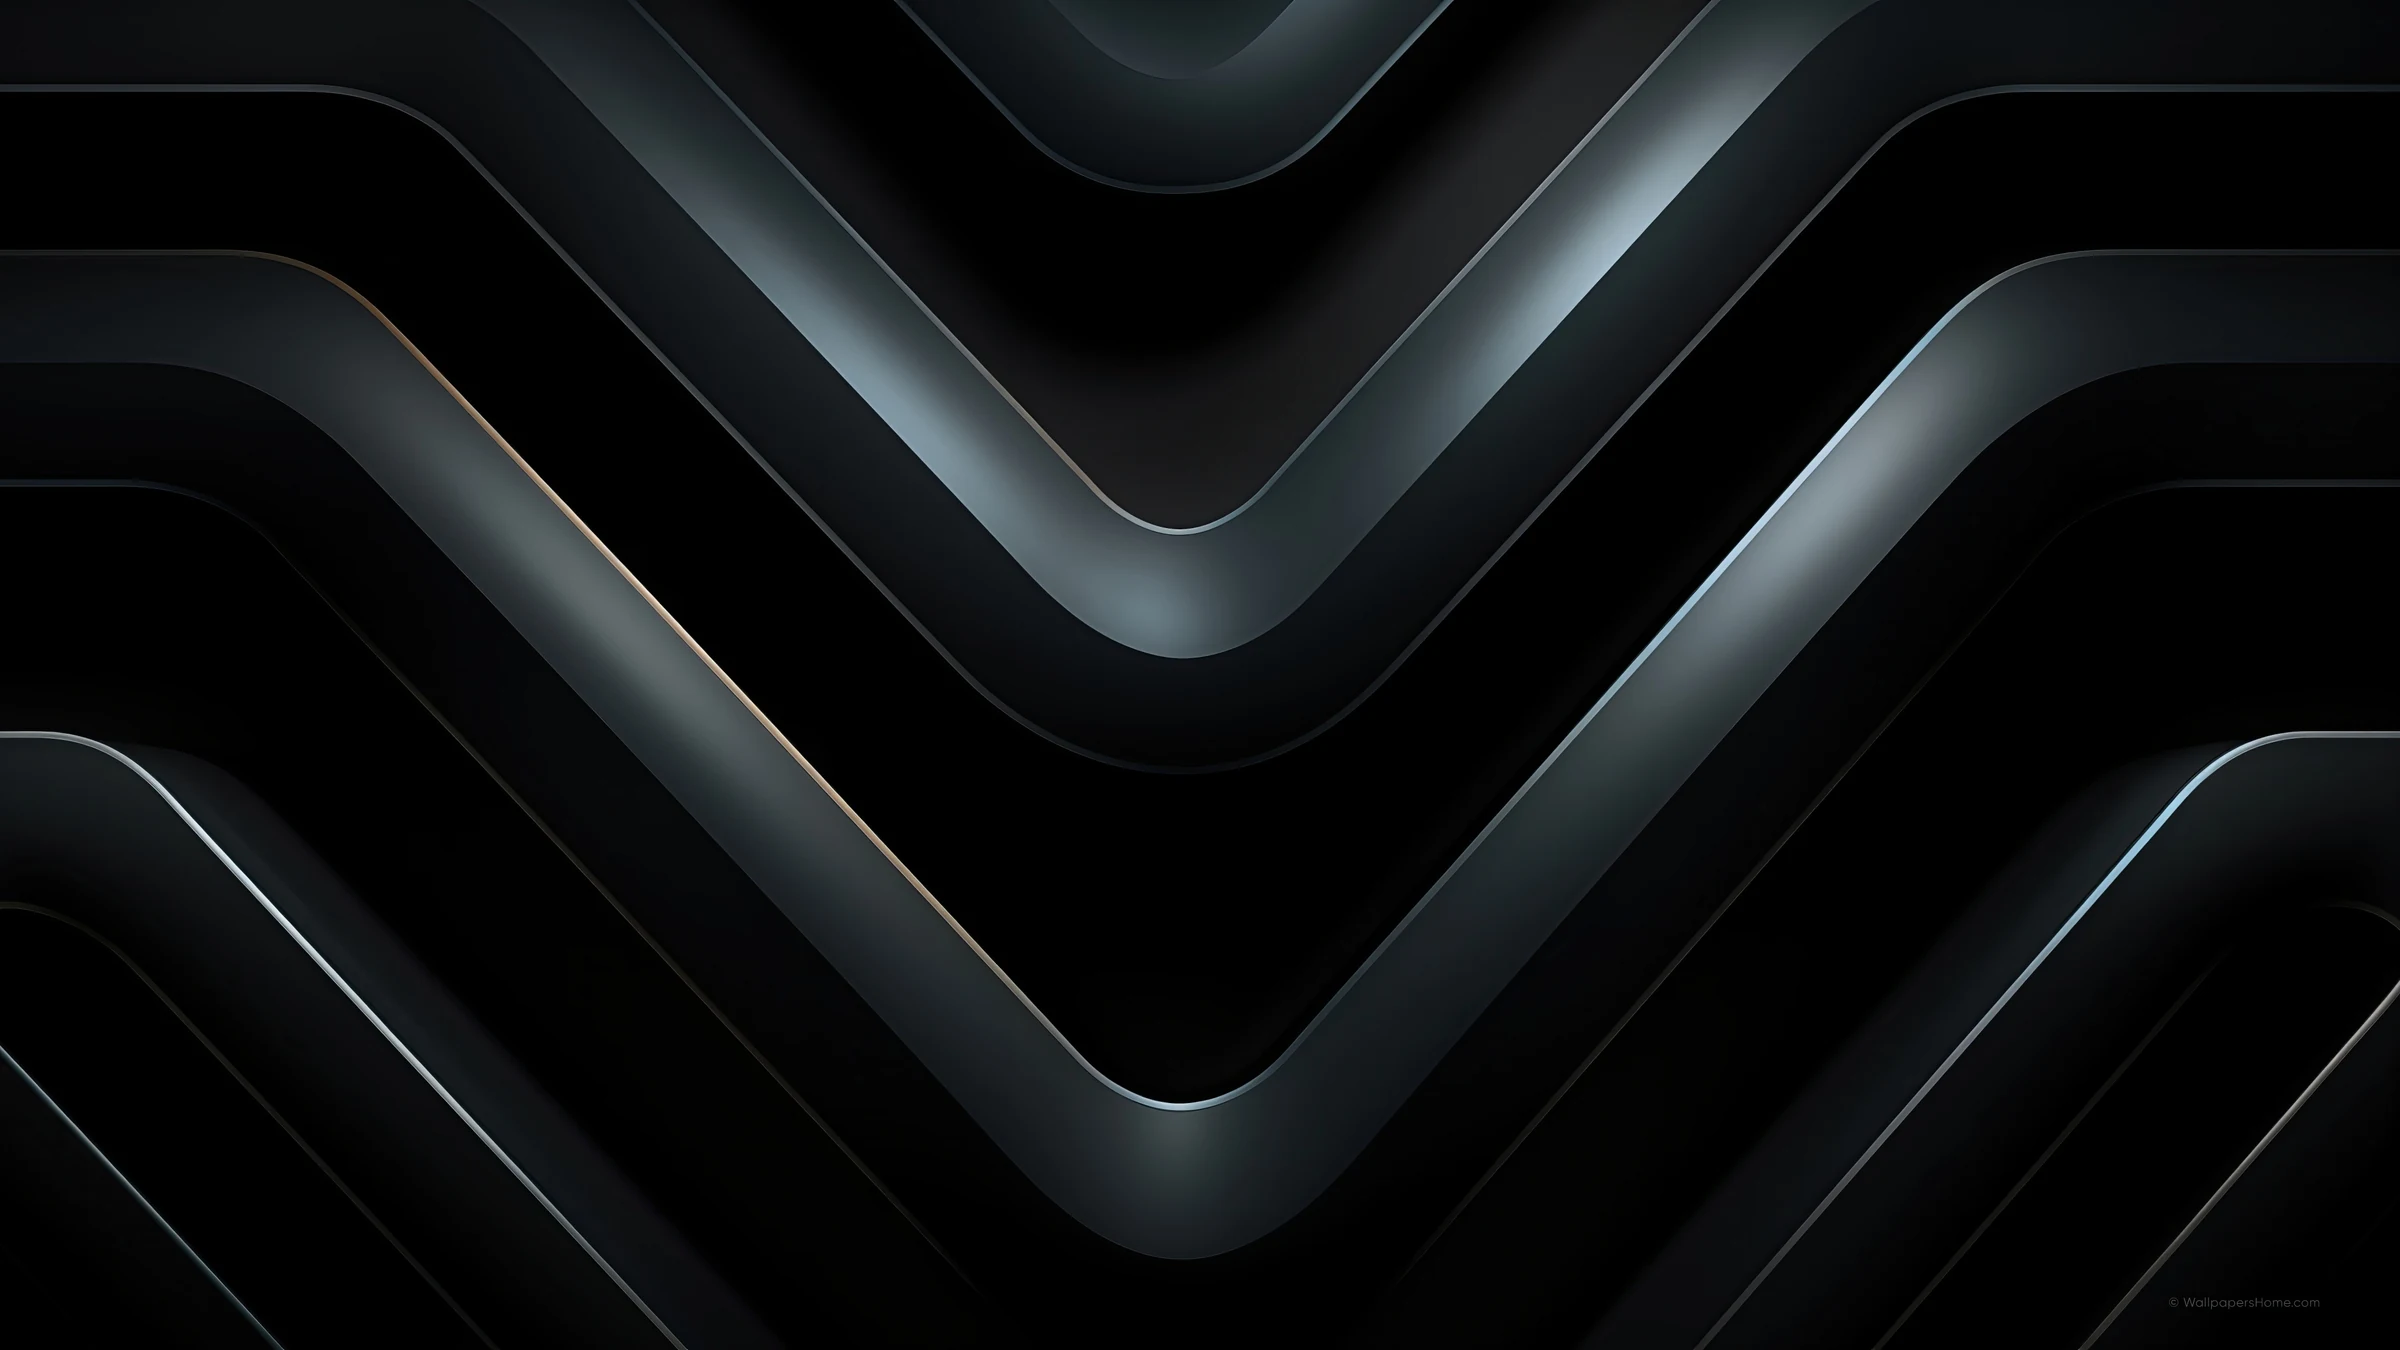
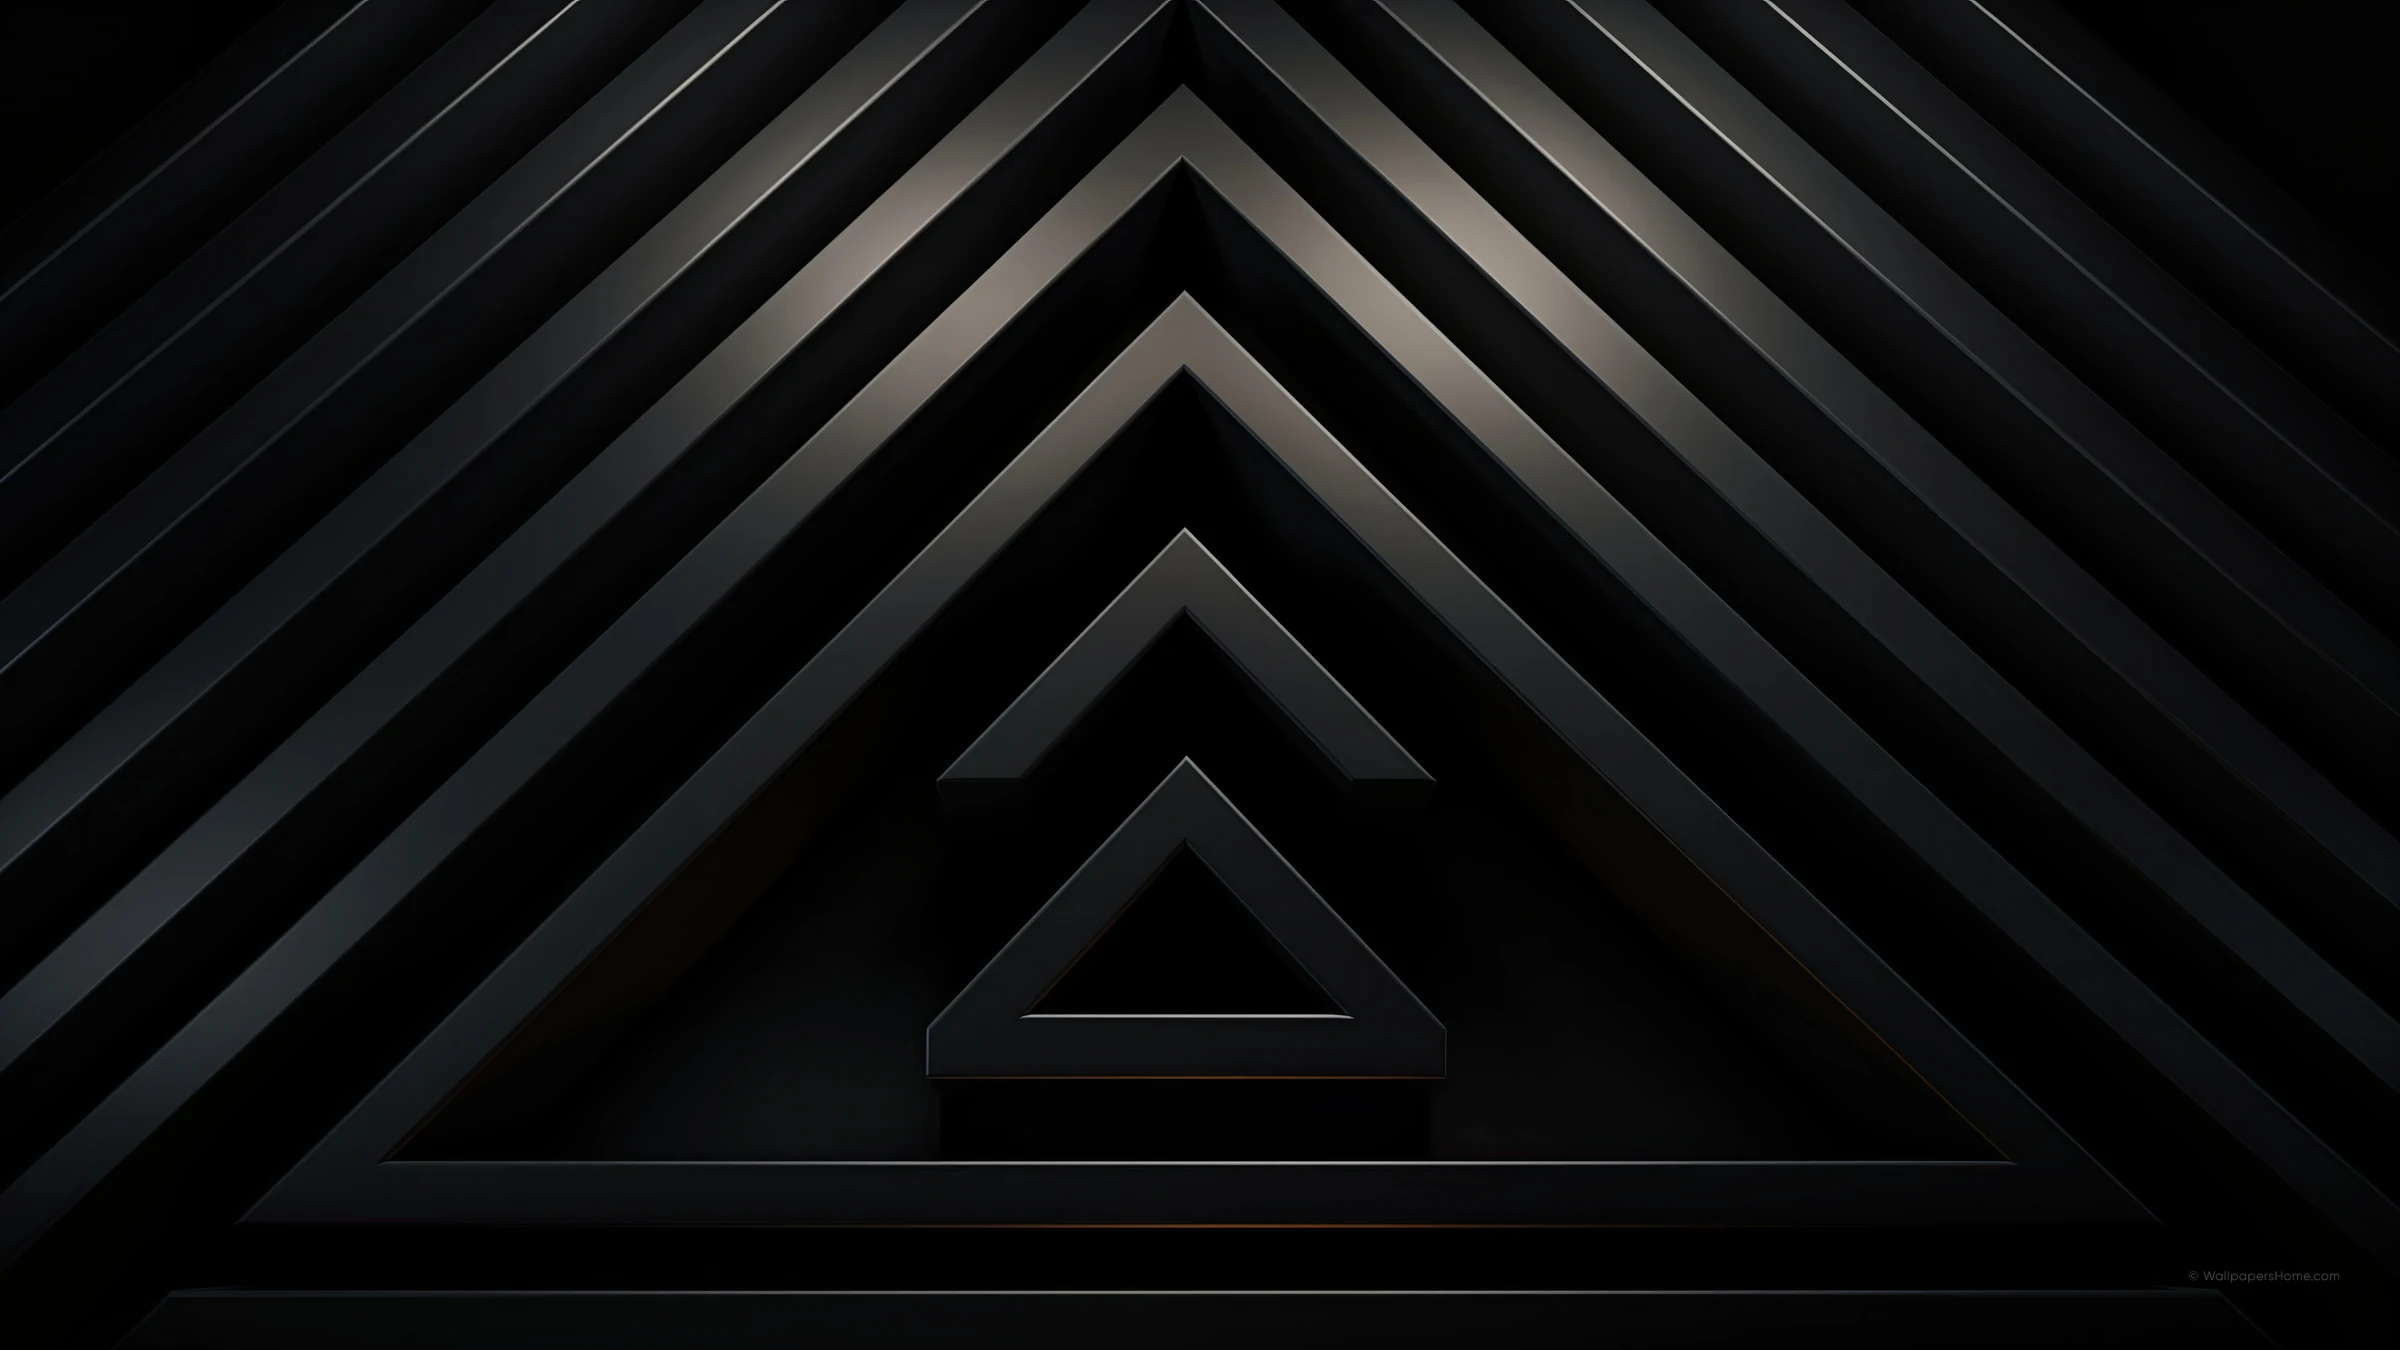
Enlarge the centered emblem over the chevron background

diff --git a/index.html b/index.html
@@ -1,5 +1,5 @@
 <!doctype html>
-<html lang="en"><head><meta charset="UTF-8"><meta name="viewport" content="width=device-width,initial-scale=1"><meta name="description" content="egosaint — an exploration of image, object and atmosphere. Creative direction and photography portfolio concept."><meta name="theme-color" content="#eeeee8"><title>egosaint — Image & Direction</title><link rel="stylesheet" href="style.css?v=member-photos"><link rel="stylesheet" href="montage.css"><link rel="stylesheet" href="scroll-motion.css?v=band-emblem"></head>
+<html lang="en"><head><meta charset="UTF-8"><meta name="viewport" content="width=device-width,initial-scale=1"><meta name="description" content="egosaint — an exploration of image, object and atmosphere. Creative direction and photography portfolio concept."><meta name="theme-color" content="#eeeee8"><title>egosaint — Image & Direction</title><link rel="stylesheet" href="style.css?v=member-photos"><link rel="stylesheet" href="montage.css"><link rel="stylesheet" href="scroll-motion.css?v=emblem-chevrons"></head>
 <body>
 <header>
   <a class="wordmark" href="#" aria-label="egosaint home" data-reveal="left">

diff --git a/scroll-motion.css b/scroll-motion.css
@@ -44,11 +44,11 @@
   display: grid;
   place-items: center;
   min-height: clamp(280px, 38vw, 620px);
-  background: #111619 url("images/band-emblem-background.webp") center / cover no-repeat;
+  background: #111619 url("images/band-emblem-background.webp?v=chevrons") center / cover no-repeat;
 }
 .band-emblem > img {
   display: block;
-  width: clamp(112px, 16vw, 240px);
+  width: min(86%, clamp(246px, 34vw, 560px));
   height: auto;
 }
 #about {
